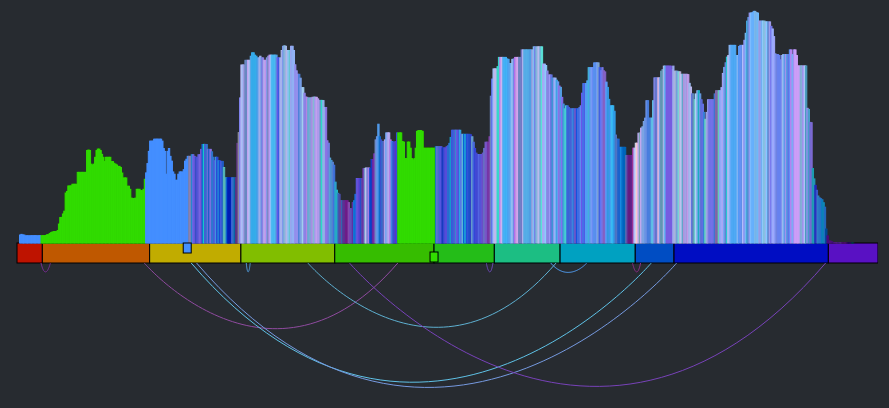
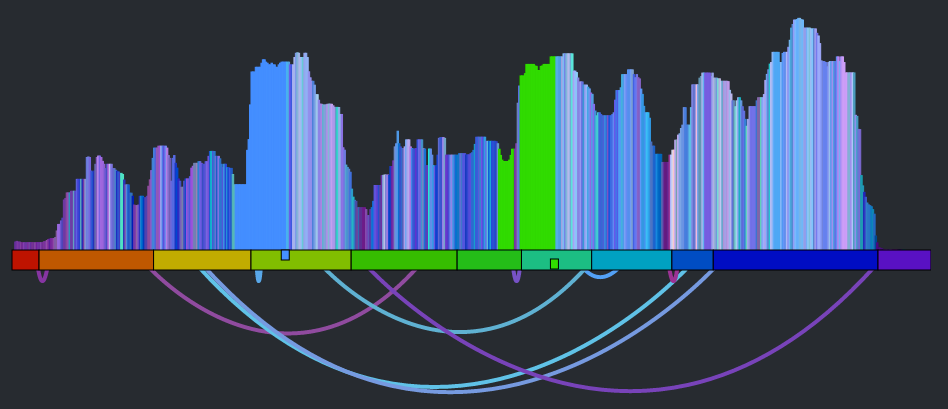
Fixed the last beat duration

diff --git a/go.html b/go.html
@@ -312,6 +312,11 @@ function allReady() {
         q1.section = getSection(q1);
     });
 
+    // make the last beat last until the end of the song
+
+    var lastBeat = masterQs[masterQs.length - 1];
+    lastBeat.duration = trackDuration - lastBeat.start;
+
     _.each(masterQs, function(q1) {
         calculateNearestNeighborsForQuantum(masterQs, q1); 
     });
@@ -697,7 +702,6 @@ var vPad = 20;
 var hPad = 20;
 
 function createTiles(qlist) {
-    drawSections();
     normalizeColor();
     var GH = H - vPad * 2;
     var HB = H - vPad;
@@ -710,8 +714,9 @@ function createTiles(qlist) {
         var height = (H - vPad) * Math.pow(q.median_volume, 4);
         createTile(i, q, x, HB - height, tileWidth, height);
     }
-    updateCursors(qlist[0]);
     drawConnections(qlist);
+    drawSections();
+    updateCursors(qlist[0]);
     return tiles;
 }
 
@@ -743,7 +748,7 @@ function drawConnection(q1, q2, maxDelta) {
     var cy = delta/maxDelta * CH * 2.0;
 
     if (cy < 20) {
-        cy = 20;
+        cy = 30;
     }
 
     cy = H + cy;
@@ -753,12 +758,13 @@ function drawConnection(q1, q2, maxDelta) {
     // but always at most one for the master.
 
     var x1 = hPad + TW * q1.other.start / trackDuration;
-    var y = H;
+    var y = H -4;
     var x2 = hPad + TW * q2.other.start / trackDuration;
     var cx = (x2 - x1) / 2 + x1;
     var path = 'M' + x1 + ' ' + y + ' S ' + cx + ' ' + cy  + ' ' + x2 + ' ' + y;
     q1.ppath = paper.path(path)
     q1.ppath.attr('stroke', getQuantumColor(q1.other));
+    q1.ppath.attr('stroke-width', 4);
 }
 
 function drawSections() {
